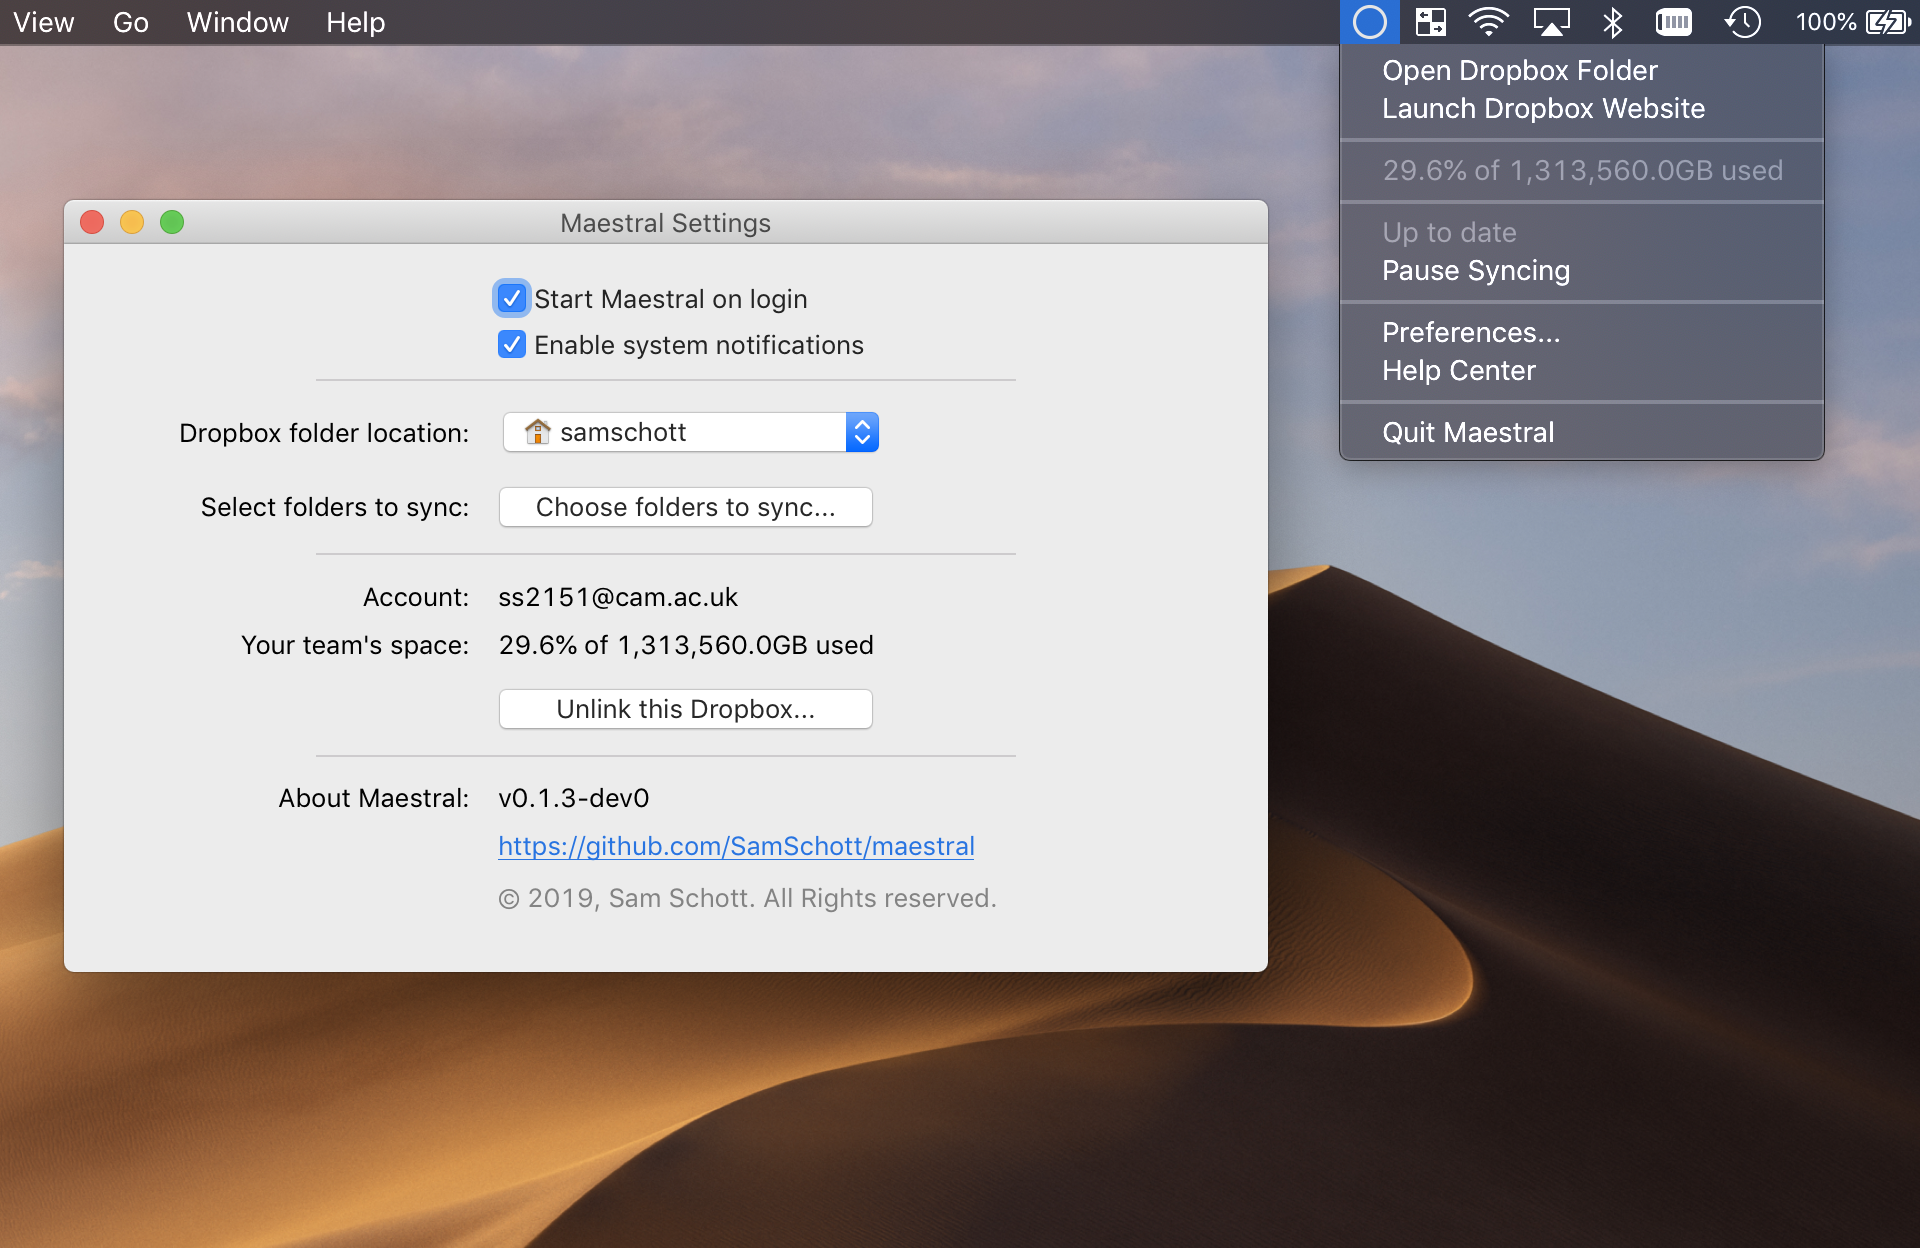
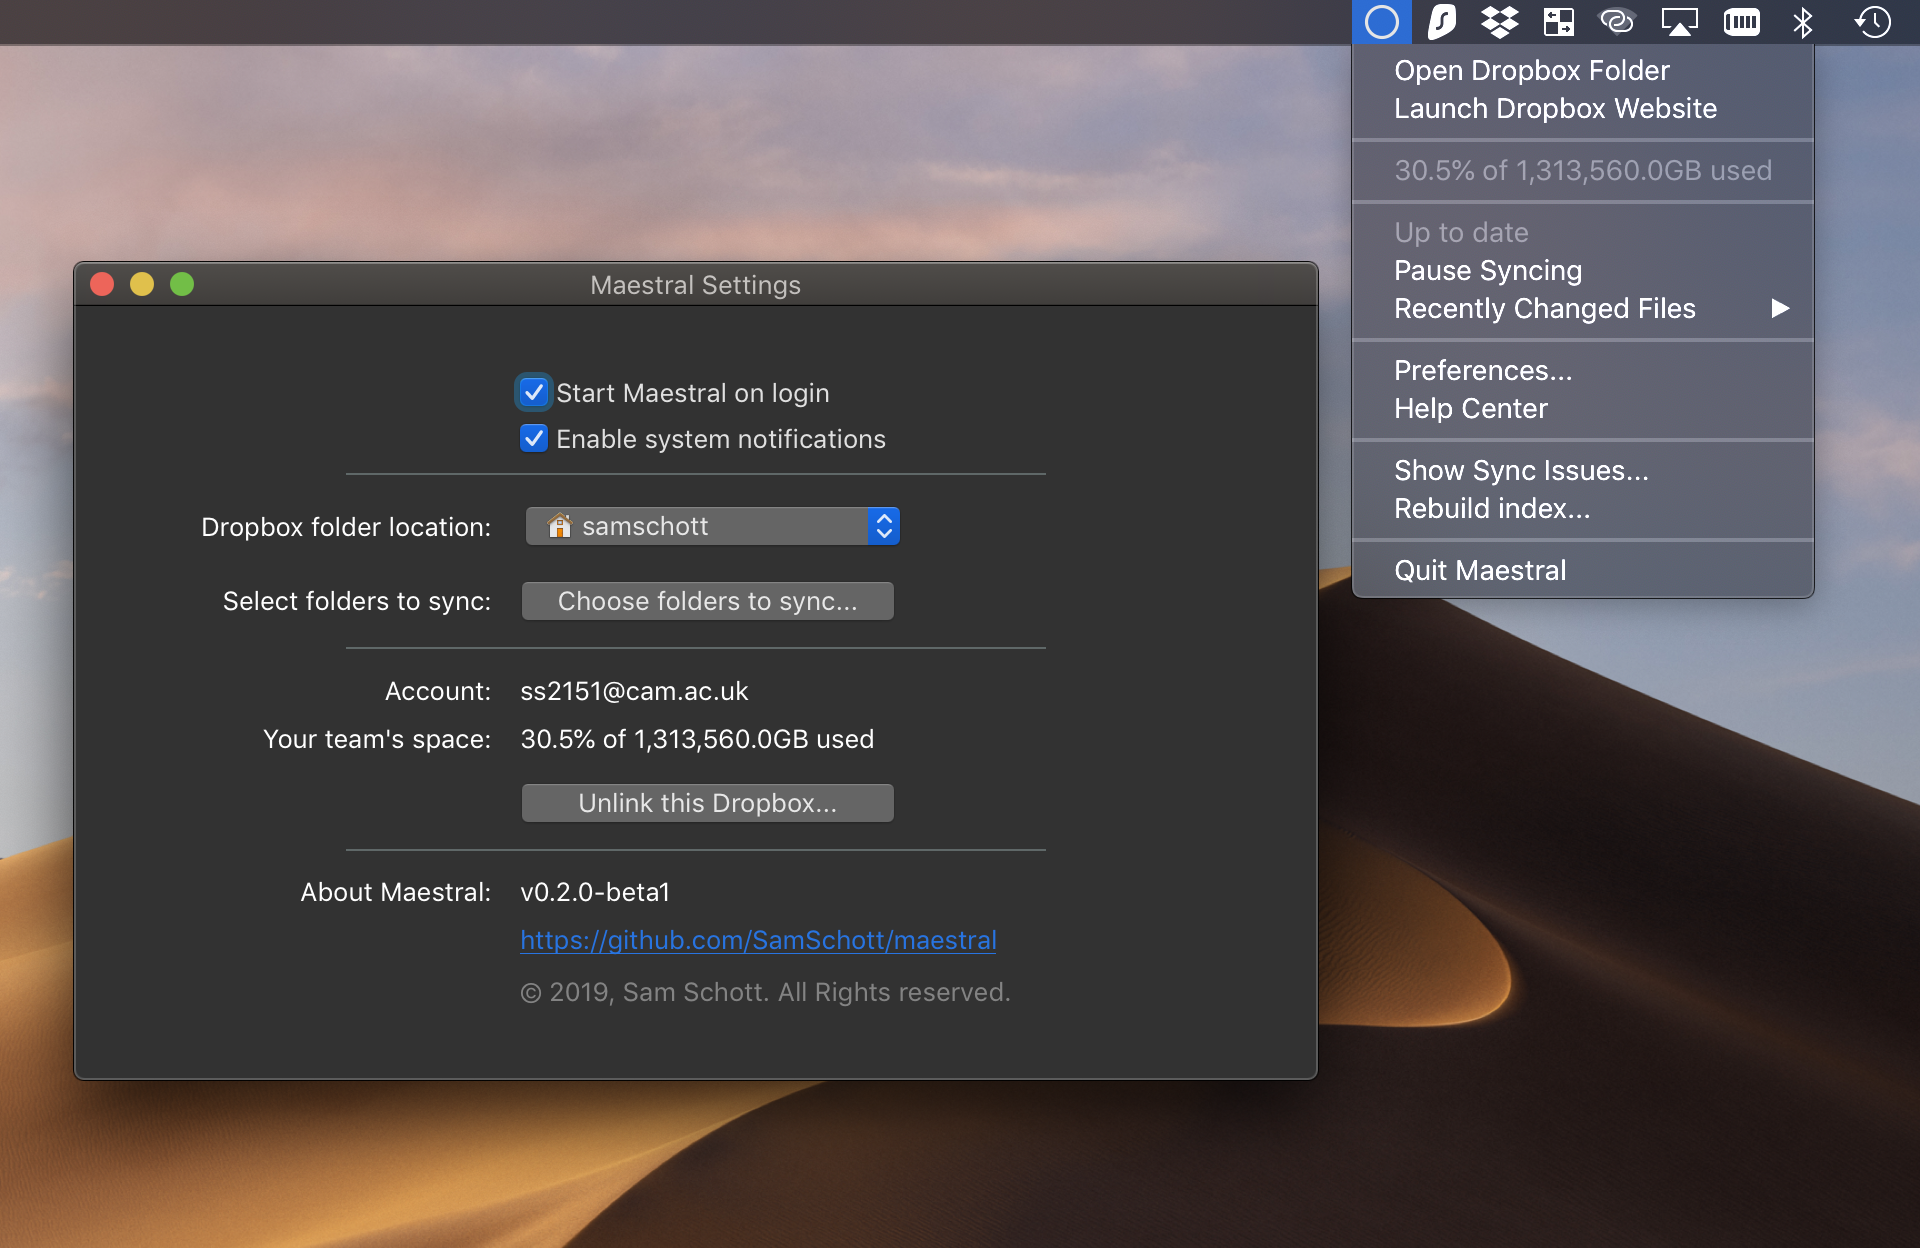
updated macOS screenshot to use dark mode

diff --git a/README.md b/README.md
@@ -20,15 +20,11 @@ $ pip install --upgrade git+https://github.com/SamSchott/maestral
 ```
 in the command line. If you intend to use the graphical user interface, you also need to
 install PyQt5. It is recommended to install PyQt5 through your distribution's package manager
-(e.g, yum, dnf, apt-get, homebrew), for instance:
-```console
-$ sudo apt-get install python3-pyqt5
-```
-Otherwise, you can also install it from PyPI:
+(e.g, yum, dnf, apt-get, homebrew). Alternatively, you can also install PyQt5 from PyPI:
 ```console
 $ pip install --upgrade PyQt5
 ```
-However, in the latter case the interface style may not follow your selected system appearance
+However, in this case the interface style may not follow your selected system appearance
 (e.g., "dark mode" on macOS or "Adwaita-dark" on Gnome). 
 
 ## Usage
